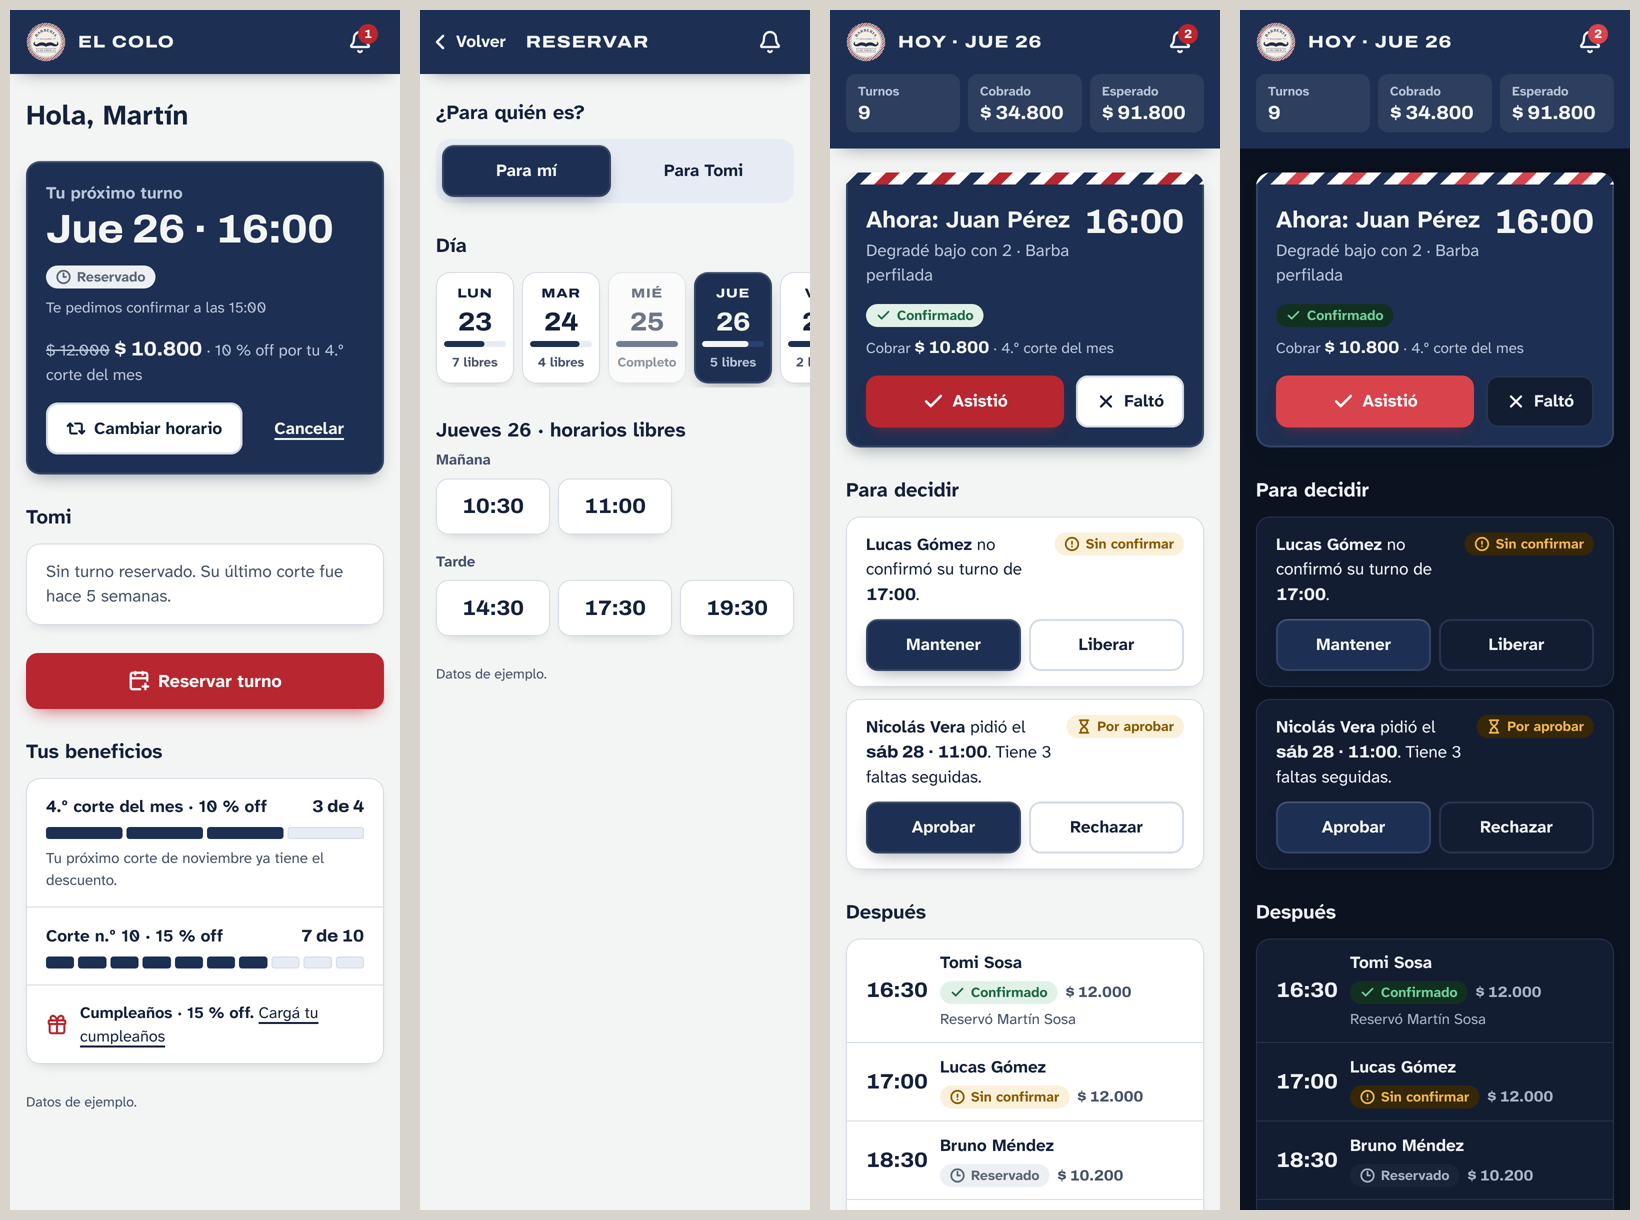
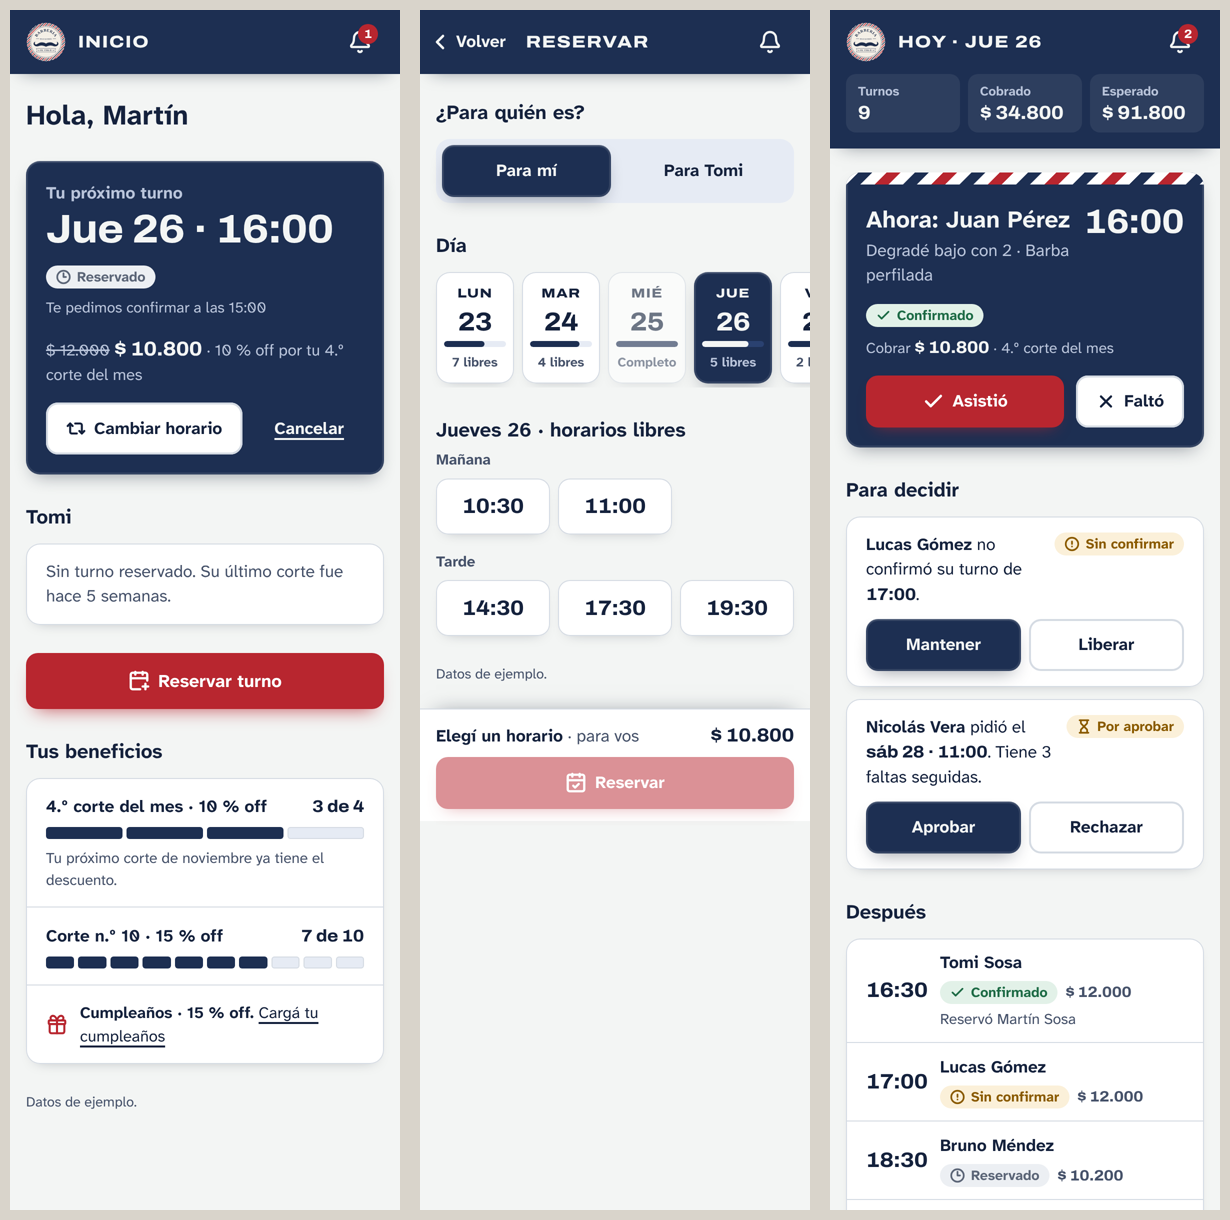
design: versión web del prototipo con riel lateral (UI-02)
- AppShell: barra inferior en el celular, riel lateral de esmalte en web
- Inicio, reservar y hoy del barbero en dos columnas desde 1024 px
- Corrige el desborde horizontal de la grilla en el celular

Claude-Session: https://claude.ai/code/session_01T2sjsENqfsq1neSCggaKgo

diff --git a/src/app/prototipo/reservar/page.tsx b/src/app/prototipo/reservar/page.tsx
@@ -4,7 +4,7 @@ import { useState } from "react";
 import Link from "next/link";
 import { CalendarCheck, CalendarPlus, House, Scissors, UserRound } from "lucide-react";
 import { AppHeader } from "@/ui/AppHeader";
-import { BottomNav } from "@/ui/BottomNav";
+import { AppShell } from "@/ui/AppShell";
 import { Button } from "@/ui/Button";
 import { Plate } from "@/ui/Plate";
 import { PoleBand } from "@/ui/PoleBand";
@@ -44,9 +44,9 @@ export default function BookPrototype() {
 
   if (booked && slot) {
     return (
-      <>
+      <AppShell nav={NAV}>
         <AppHeader title="Turno reservado" />
-        <main className="flex flex-1 flex-col gap-6 px-4 pb-8 pt-6">
+        <main className="mx-auto flex w-full max-w-xl flex-1 flex-col gap-6 px-4 pb-8 pt-6 lg:pt-10">
           <Plate tone="esmalte" className="overflow-hidden" aria-live="polite">
             <PoleBand className="h-3" />
             <div className="flex flex-col gap-3 p-5">
@@ -75,14 +75,15 @@ export default function BookPrototype() {
           </Link>
           <p className="text-[14px] text-tinta-suave">Datos de ejemplo.</p>
         </main>
-      </>
+      </AppShell>
     );
   }
 
   return (
-    <>
+    <AppShell nav={NAV}>
       <AppHeader title="Reservar" back="/prototipo/cliente" />
-      <main className="flex flex-1 flex-col gap-7 px-4 pb-6 pt-6">
+      <div className="mx-auto grid w-full max-w-6xl flex-1 grid-cols-1 content-start items-start lg:grid-cols-[minmax(0,1fr)_360px] lg:gap-10 lg:px-8 lg:pt-10">
+      <main className="flex flex-col gap-7 px-4 pb-6 pt-6 lg:px-0 lg:pt-0">
         <fieldset className="flex flex-col gap-3">
           <legend className="mb-3 text-[20px] font-bold">¿Para quién es?</legend>
           <div className="grid grid-cols-2 gap-2 rounded-[var(--radius-chapa)] bg-esmalte-100 p-1.5">
@@ -110,7 +111,7 @@ export default function BookPrototype() {
 
         <fieldset className="flex flex-col">
           <legend className="mb-3 text-[20px] font-bold">Día</legend>
-          <div className="-mx-4 flex gap-2 overflow-x-auto px-4 pb-1">
+          <div className="-mx-4 flex gap-2 overflow-x-auto px-4 pb-1 lg:mx-0 lg:grid lg:grid-cols-6 lg:overflow-visible lg:px-0">
             {DAYS.map((d) => {
               const full = d.free === 0;
               const selected = d.id === dayId;
@@ -119,7 +120,7 @@ export default function BookPrototype() {
                 <label
                   key={d.id}
                   className={cx(
-                    "flex w-[78px] shrink-0 flex-col items-center gap-1.5 rounded-[var(--radius-chapa)] px-2 py-3 has-[:focus-visible]:outline has-[:focus-visible]:outline-3 has-[:focus-visible]:outline-poste",
+                    "flex w-[78px] shrink-0 flex-col items-center gap-1.5 lg:w-auto rounded-[var(--radius-chapa)] px-2 py-3 has-[:focus-visible]:outline has-[:focus-visible]:outline-3 has-[:focus-visible]:outline-poste",
                     full && "cursor-not-allowed opacity-60",
                     !full && "cursor-pointer",
                     selected
@@ -165,7 +166,7 @@ export default function BookPrototype() {
             groups[part].length ? (
               <div key={part} className="flex flex-col gap-2">
                 <p className="text-[15px] font-bold capitalize text-tinta-suave">{part}</p>
-                <div className="grid grid-cols-3 gap-2">
+                <div className="grid grid-cols-3 gap-2 sm:grid-cols-4 xl:grid-cols-5">
                   {groups[part].map((s) => (
                     <label
                       key={s}
@@ -195,8 +196,12 @@ export default function BookPrototype() {
         <p className="text-[14px] text-tinta-suave">Datos de ejemplo.</p>
       </main>
 
-      <div className="sticky bottom-[64px] z-10 border-t border-linea bg-chapa px-4 py-3 shadow-[0_-10px_20px_-16px_rgb(14_23_41/0.5)]">
-        <div className="mb-2 flex items-baseline justify-between gap-3">
+      <aside
+        aria-label="Resumen de la reserva"
+        className="sticky bottom-[64px] z-10 self-end border-t border-linea bg-chapa px-4 py-3 shadow-[0_-10px_20px_-16px_rgb(14_23_41/0.5)] lg:top-28 lg:bottom-auto lg:rounded-[var(--radius-chapa)] lg:border-0 lg:p-5 lg:shadow-[var(--shadow-chapa-clara)]"
+      >
+        <h2 className="mb-3 hidden text-[20px] font-bold lg:block">Tu reserva</h2>
+        <div className="mb-2 flex items-baseline justify-between gap-3 lg:mb-4 lg:flex-col lg:items-start lg:gap-1">
           <p className="font-bold">
             {slot ? `${day.short} ${day.day} · ${slot}` : "Elegí un horario"}
             <span className="font-normal text-tinta-suave"> · {who.id === "yo" ? "para vos" : "para Tomi"}</span>
@@ -207,8 +212,11 @@ export default function BookPrototype() {
           <CalendarCheck aria-hidden size={22} strokeWidth={2.5} />
           {slot ? `Reservar ${slot}` : "Reservar"}
         </Button>
+        <p className="mt-3 hidden text-[15px] text-tinta-suave lg:block">
+          Podés cancelar o cambiar el horario sin problema hasta 4 horas antes.
+        </p>
+      </aside>
       </div>
-      <BottomNav items={NAV} />
-    </>
+    </AppShell>
   );
 }

diff --git a/src/app/prototipo/barbero/page.tsx b/src/app/prototipo/barbero/page.tsx
@@ -1,6 +1,6 @@
 import { BarChart3, CalendarDays, Check, Settings, Sun, UsersRound, X } from "lucide-react";
 import { AppHeader } from "@/ui/AppHeader";
-import { BottomNav } from "@/ui/BottomNav";
+import { AppShell } from "@/ui/AppShell";
 import { Button } from "@/ui/Button";
 import { Plate } from "@/ui/Plate";
 import { PoleBand } from "@/ui/PoleBand";
@@ -26,9 +26,9 @@ export default function BarberToday() {
   const billed = TODAY.filter((r) => r.status === "attended").reduce((sum, r) => sum + r.price, 0);
 
   return (
-    <>
+    <AppShell nav={NAV}>
       <AppHeader title="Hoy · Jue 26" unread={2}>
-        <dl className="grid grid-cols-3 gap-2 px-4 pb-4">
+        <dl className="mx-auto grid w-full max-w-6xl grid-cols-3 gap-2 px-4 pb-4 lg:gap-4 lg:px-8 lg:pb-6">
           {[
             { k: "Turnos", v: String(TODAY.length) },
             { k: "Cobrado", v: pesos(billed) },
@@ -36,13 +36,14 @@ export default function BarberToday() {
           ].map(({ k, v }) => (
             <div key={k} className="rounded-[10px] bg-[rgb(243_245_244/0.08)] px-3 py-2">
               <dt className="text-[13px] font-bold text-sobre-esmalte-suave">{k}</dt>
-              <dd className="cifra text-[19px] leading-tight">{v}</dd>
+              <dd className="cifra text-[19px] leading-tight lg:text-[26px]">{v}</dd>
             </div>
           ))}
         </dl>
       </AppHeader>
 
-      <main className="flex flex-1 flex-col gap-7 px-4 pb-8 pt-6">
+      <main className="mx-auto grid w-full max-w-6xl flex-1 grid-cols-1 content-start gap-7 px-4 pb-8 pt-6 lg:grid-cols-2 lg:items-start lg:gap-10 lg:px-8 lg:pt-10">
+        <div className="flex flex-col gap-7">
         <Plate tone="esmalte" aria-labelledby="ahora" className="overflow-hidden">
           <PoleBand className="h-3" />
           <div className="flex flex-col gap-4 p-5">
@@ -106,6 +107,9 @@ export default function BarberToday() {
           </Plate>
         </section>
 
+        </div>
+
+        <div className="flex flex-col gap-7">
         <section aria-labelledby="despues" className="flex flex-col gap-3">
           <h2 id="despues" className="text-[20px] font-bold">
             Después
@@ -128,9 +132,9 @@ export default function BarberToday() {
           </Plate>
         </section>
         <p className="text-[14px] text-tinta-suave">Datos de ejemplo.</p>
+        </div>
       </main>
-      <BottomNav items={NAV} />
-    </>
+    </AppShell>
   );
 }
 

diff --git a/src/ui/AppShell.tsx b/src/ui/AppShell.tsx
@@ -1,0 +1,54 @@
+import Link from "next/link";
+import type { ReactNode } from "react";
+import { BottomNav, type NavItem } from "./BottomNav";
+import { Badge } from "./brand/Badge";
+import { cx } from "./cx";
+
+/**
+ * Estructura de la app.
+ * - Celular: contenido + barra inferior de esmalte.
+ * - Web (≥ 1024 px): riel lateral de esmalte con la insignia y las secciones; el contenido usa el ancho.
+ */
+export function AppShell({ nav, children }: { nav: NavItem[]; children: ReactNode }) {
+  return (
+    <div className="flex min-h-dvh flex-col lg:grid lg:grid-cols-[248px_1fr]">
+      <aside className="sticky top-0 hidden h-dvh flex-col gap-8 bg-esmalte px-4 py-6 text-sobre-esmalte-suave shadow-[8px_0_24px_-18px_rgb(14_23_41/0.6)] lg:flex">
+        <Link href="/prototipo" className="flex items-center gap-3 px-2 text-sobre-esmalte">
+          <Badge size={52} />
+          <span className="flex flex-col leading-tight">
+            <span className="letras-chapa text-[18px]">El Colo</span>
+            <span className="text-[13px] font-bold text-sobre-esmalte-suave">Barbería y Peluquería</span>
+          </span>
+        </Link>
+        <nav aria-label="Secciones">
+          <ul className="flex flex-col gap-1">
+            {nav.map(({ href, label, icon: Icon, current }) => (
+              <li key={href}>
+                <Link
+                  href={href}
+                  aria-current={current ? "page" : undefined}
+                  className={cx(
+                    "flex min-h-[48px] items-center gap-3 rounded-[var(--radius-control)] px-3 text-[16px] font-bold transition-colors",
+                    current
+                      ? "bg-[rgb(243_245_244/0.14)] text-sobre-esmalte shadow-[inset_0_0_0_1px_rgb(243_245_244/0.18)]"
+                      : "hover:bg-[rgb(243_245_244/0.08)] hover:text-sobre-esmalte",
+                  )}
+                >
+                  <Icon aria-hidden size={22} strokeWidth={current ? 2.5 : 2} />
+                  {label}
+                </Link>
+              </li>
+            ))}
+          </ul>
+        </nav>
+        <div aria-hidden className="poste mt-auto h-2 rounded-full opacity-90" />
+      </aside>
+      <div className="flex min-w-0 flex-1 flex-col">
+        {children}
+        <div className="lg:hidden">
+          <BottomNav items={nav} />
+        </div>
+      </div>
+    </div>
+  );
+}

diff --git a/src/app/prototipo/cliente/page.tsx b/src/app/prototipo/cliente/page.tsx
@@ -1,7 +1,7 @@
 import Link from "next/link";
 import { CalendarPlus, Gift, House, Repeat2, Scissors, UserRound } from "lucide-react";
 import { AppHeader } from "@/ui/AppHeader";
-import { BottomNav } from "@/ui/BottomNav";
+import { AppShell } from "@/ui/AppShell";
 import { Button } from "@/ui/Button";
 import { Plate } from "@/ui/Plate";
 import { StatusMark } from "@/ui/StatusMark";
@@ -17,9 +17,10 @@ const NAV = [
 
 export default function ClientHome() {
   return (
-    <>
-      <AppHeader title="El Colo" unread={1} />
-      <main className="flex flex-1 flex-col gap-7 px-4 pb-8 pt-6">
+    <AppShell nav={NAV}>
+      <AppHeader title="Inicio" unread={1} />
+      <main className="mx-auto grid w-full max-w-6xl flex-1 grid-cols-1 content-start gap-7 px-4 pb-8 pt-6 lg:grid-cols-[minmax(0,1.3fr)_minmax(0,1fr)] lg:items-start lg:gap-10 lg:px-8 lg:pt-10">
+        <div className="flex flex-col gap-7">
         <h1 className="text-[28px] font-bold leading-tight">Hola, Martín</h1>
 
         <Plate tone="esmalte" aria-labelledby="proximo" className="overflow-hidden">
@@ -67,6 +68,9 @@ export default function ClientHome() {
           <CalendarPlus aria-hidden size={22} strokeWidth={2.5} />
           Reservar turno
         </Link>
+        </div>
+
+        <div className="flex flex-col gap-7 lg:pt-[58px]">
 
         <section aria-labelledby="beneficios" className="flex flex-col gap-3">
           <h2 id="beneficios" className="text-[20px] font-bold">
@@ -100,8 +104,8 @@ export default function ClientHome() {
           </Plate>
         </section>
         <p className="text-[14px] text-tinta-suave">Datos de ejemplo.</p>
+        </div>
       </main>
-      <BottomNav items={NAV} />
-    </>
+    </AppShell>
   );
 }

diff --git a/src/ui/AppHeader.tsx b/src/ui/AppHeader.tsx
@@ -20,16 +20,18 @@ export function AppHeader({
 }) {
   return (
     <header className="sticky top-0 z-10 bg-esmalte text-sobre-esmalte shadow-[0_8px_18px_-12px_rgb(14_23_41/0.6)]">
-      <div className="flex min-h-[64px] items-center gap-3 px-4">
+      <div className="mx-auto flex min-h-[64px] w-full max-w-6xl items-center gap-3 px-4 lg:min-h-[72px] lg:px-8">
         {back ? (
           <Link href={back} className="-ml-2 flex min-h-[48px] items-center gap-1 rounded-lg pr-2 font-bold">
             <ChevronLeft aria-hidden size={24} strokeWidth={2.5} />
             Volver
           </Link>
         ) : (
-          <Badge size={40} />
+          <span className="lg:hidden">
+            <Badge size={40} />
+          </span>
         )}
-        <p className="letras-chapa min-w-0 flex-1 truncate text-[17px]">{title}</p>
+        <p className="letras-chapa min-w-0 flex-1 truncate text-[17px] lg:text-[20px]">{title}</p>
         <Link
           href="#avisos"
           aria-label={unread ? `Avisos, ${unread} sin leer` : "Avisos"}

diff --git a/src/app/prototipo/page.tsx b/src/app/prototipo/page.tsx
@@ -10,7 +10,7 @@ const SCREENS = [
 
 export default function PrototypeIndex() {
   return (
-    <main className="flex flex-1 flex-col gap-8 px-5 py-10">
+    <main className="mx-auto flex w-full max-w-xl flex-1 flex-col gap-8 px-5 py-10">
       <h1 className="letras-chapa text-[22px] text-tinta">Prototipo de diseño</h1>
       <ul className="flex flex-col gap-3">
         {SCREENS.map((s) => (

diff --git a/src/app/prototipo/layout.tsx b/src/app/prototipo/layout.tsx
@@ -6,5 +6,5 @@ export const metadata: Metadata = {
 };
 
 export default function PrototypeLayout({ children }: LayoutProps<"/prototipo">) {
-  return <div className="mx-auto flex min-h-dvh w-full max-w-xl flex-col bg-porcelana">{children}</div>;
+  return <div className="flex min-h-dvh w-full flex-col bg-porcelana">{children}</div>;
 }

diff --git a/docs/diseno/04-interfaz.md b/docs/diseno/04-interfaz.md
@@ -26,6 +26,13 @@ categoría). Los carteles esmaltados del barrio en los colores del poste de barb
 | Gesto distintivo | **El poste**: rayas que avanzan como un poste girando, solo en la carga, la confirmación de una reserva y el turno "ahora" del barbero |
 | Tema | Claro de día (luz del local, calle); oscuro según el sistema, con la misma estructura |
 
+**Web (≥ 1024 px):** la barra inferior pasa a ser un **riel lateral de esmalte** con la insignia, el
+nombre y las secciones (con el poste al pie), y cada pantalla usa el ancho en dos columnas: el barbero ve
+"Ahora" y "Para decidir" a la izquierda y la fila del día a la derecha; la reserva lleva el resumen
+fijo a la derecha; el inicio del cliente pone los beneficios al costado. Mismo mundo, mismos componentes.
+
+![Prototipo en web: hoy del barbero, reservar e inicio del cliente](assets/prototipo-web.png)
+
 **Prototipo navegable** (datos de ejemplo): `/prototipo`, `/prototipo/cliente`, `/prototipo/reservar`
 (con el flujo completo hasta la confirmación) y `/prototipo/barbero`. Los componentes base quedan en
 `src/ui/` y se reutilizan en las specs.
